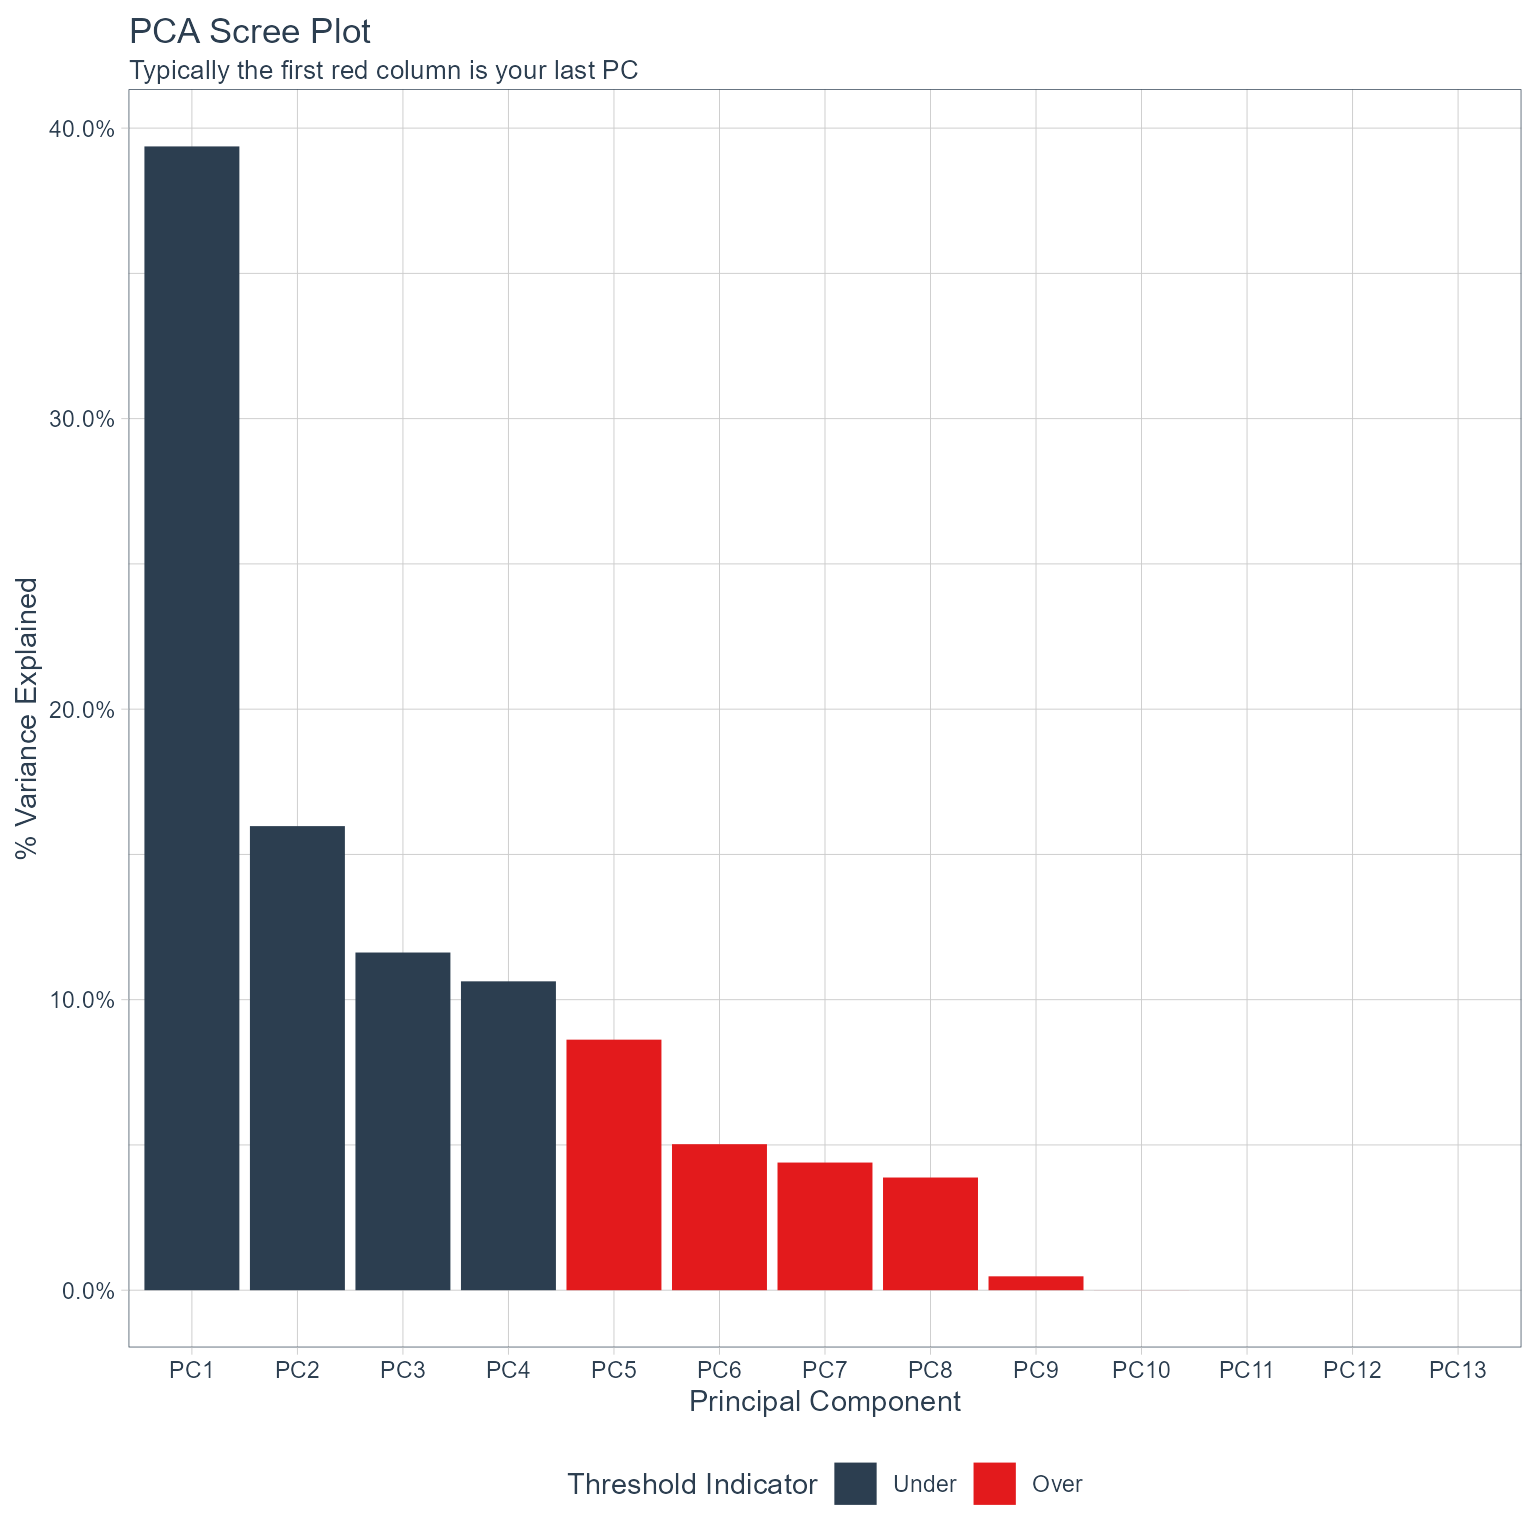
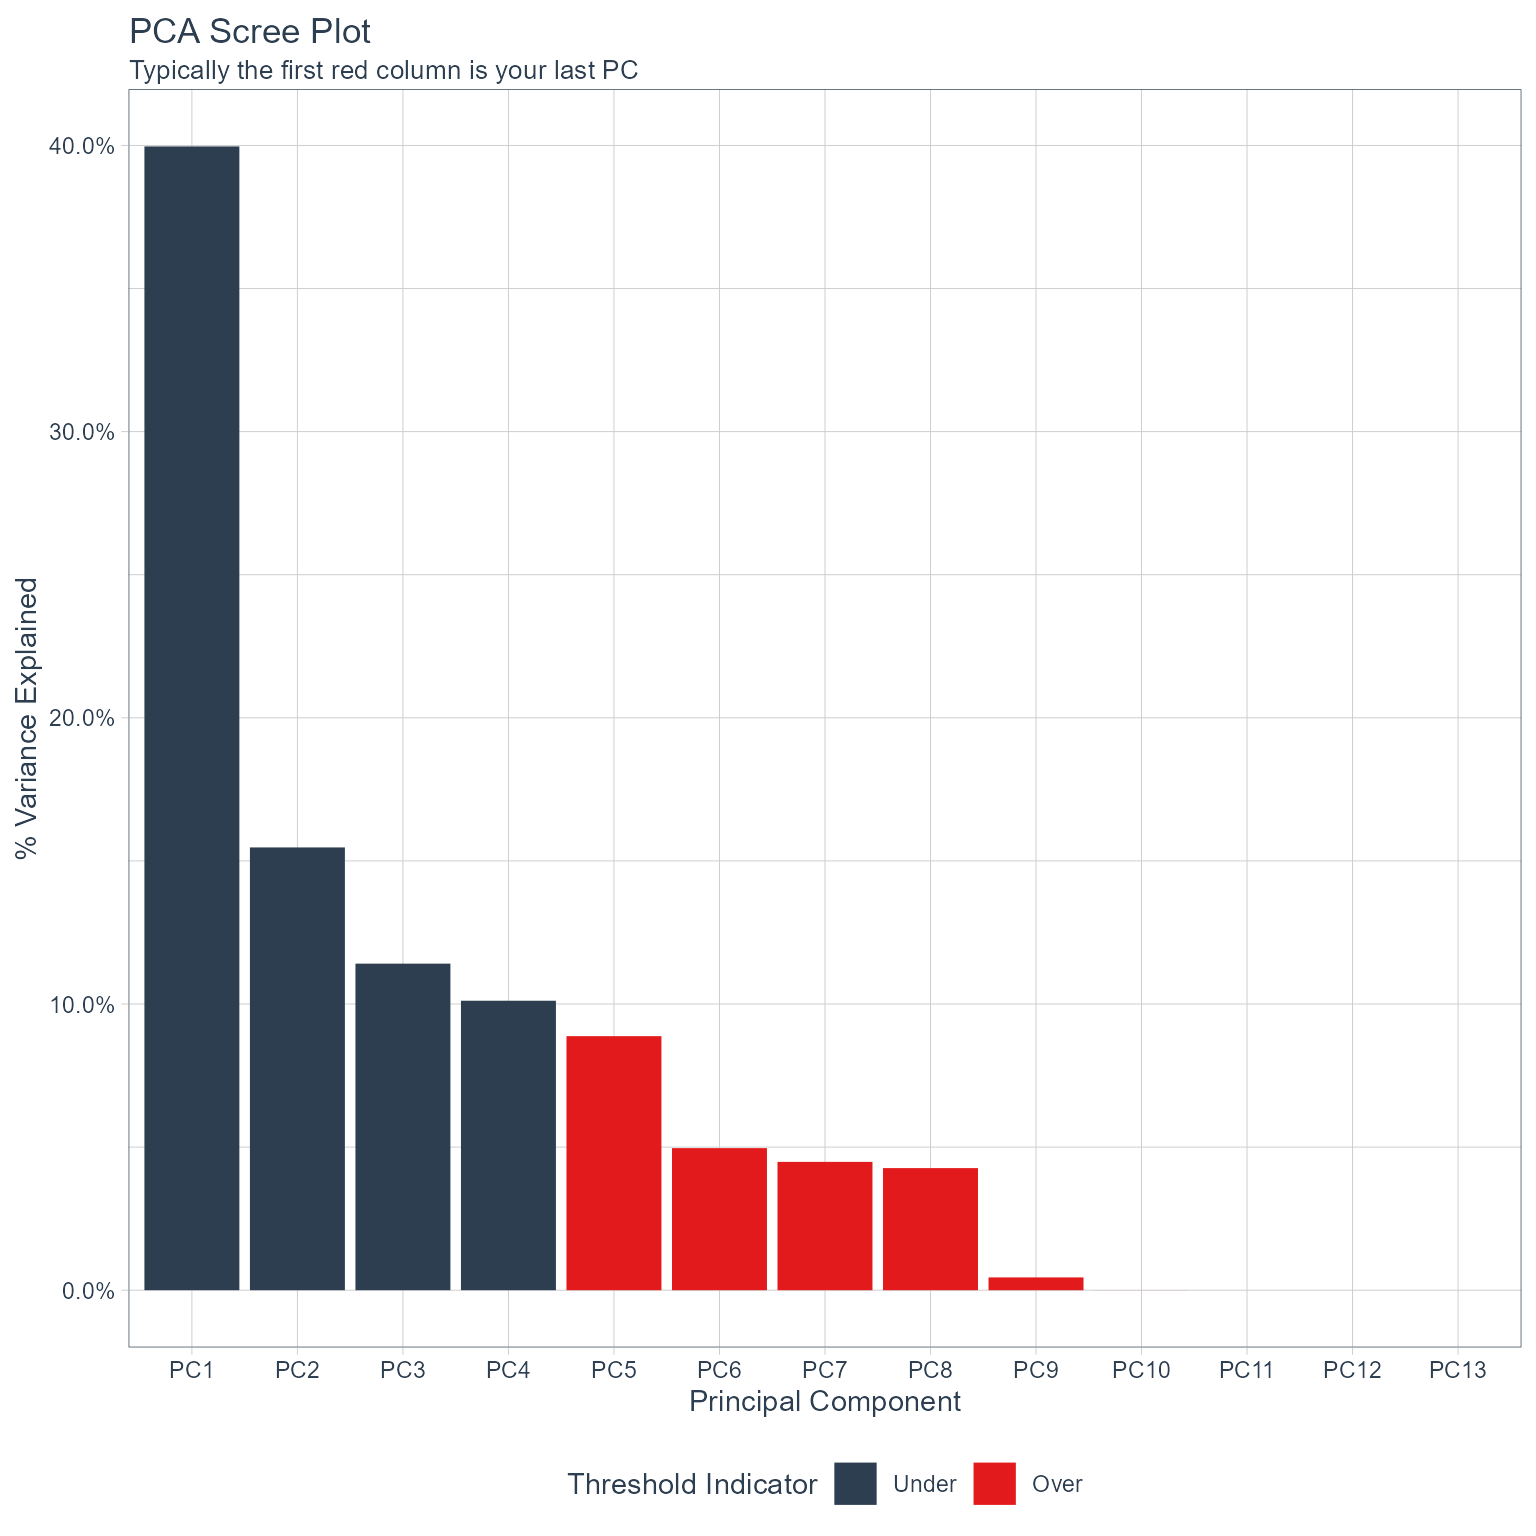
update site

diff --git a/docs/articles/getting-started.html b/docs/articles/getting-started.html
@@ -172,12 +172,12 @@
 <span class="co">#&gt; # A tibble: 6 x 2</span>
 <span class="co">#&gt;   date_col            value</span>
 <span class="co">#&gt;   &lt;dttm&gt;              &lt;int&gt;</span>
-<span class="co">#&gt; 1 2018-02-01 00:00:00  1514</span>
-<span class="co">#&gt; 2 2017-05-01 00:00:00  1647</span>
-<span class="co">#&gt; 3 2016-05-01 00:00:00  1587</span>
-<span class="co">#&gt; 4 2013-04-01 00:00:00  1865</span>
-<span class="co">#&gt; 5 2019-10-01 00:00:00  1525</span>
-<span class="co">#&gt; 6 2014-02-01 00:00:00  1651</span></code></pre></div>
+<span class="co">#&gt; 1 2020-03-01 00:00:00  1241</span>
+<span class="co">#&gt; 2 2014-01-01 00:00:00  1844</span>
+<span class="co">#&gt; 3 2014-09-01 00:00:00  1749</span>
+<span class="co">#&gt; 4 2015-08-01 00:00:00  1609</span>
+<span class="co">#&gt; 5 2017-12-01 00:00:00  1530</span>
+<span class="co">#&gt; 6 2014-10-01 00:00:00  1788</span></code></pre></div>
 </div>
 <div id="initial-recipe" class="section level2">
 <h2 class="hasAnchor">
@@ -204,25 +204,25 @@
 <span class="fu"><a href="../reference/get_juiced_data.html">get_juiced_data</a></span><span class="op">(</span><span class="va">rec_obj</span><span class="op">)</span> <span class="op"><a href="../reference/%&gt;%.html">%&gt;%</a></span> <span class="fu"><a href="https://pillar.r-lib.org/reference/glimpse.html">glimpse</a></span><span class="op">(</span><span class="op">)</span>
 <span class="co">#&gt; Rows: 76</span>
 <span class="co">#&gt; Columns: 20</span>
-<span class="co">#&gt; $ date_col           &lt;dttm&gt; 2018-02-01, 2017-05-01, 2016-05-01, 2013-04-01, 20~</span>
-<span class="co">#&gt; $ value              &lt;int&gt; 1514, 1647, 1587, 1865, 1525, 1651, 2082, 997, 1757~</span>
-<span class="co">#&gt; $ date_col_index.num &lt;dbl&gt; 1517443200, 1493596800, 1462060800, 1364774400, 156~</span>
-<span class="co">#&gt; $ date_col_year      &lt;int&gt; 2018, 2017, 2016, 2013, 2019, 2014, 2013, 2020, 201~</span>
-<span class="co">#&gt; $ date_col_half      &lt;int&gt; 1, 1, 1, 1, 2, 1, 1, 1, 2, 2, 2, 2, 2, 1, 1, 1, 2, ~</span>
-<span class="co">#&gt; $ date_col_quarter   &lt;int&gt; 1, 2, 2, 2, 4, 1, 1, 2, 4, 3, 3, 4, 4, 2, 1, 1, 4, ~</span>
-<span class="co">#&gt; $ date_col_month     &lt;int&gt; 2, 5, 5, 4, 10, 2, 1, 6, 12, 9, 7, 10, 11, 6, 1, 3,~</span>
-<span class="co">#&gt; $ date_col_month.lbl &lt;ord&gt; February, May, May, April, October, February, Janua~</span>
+<span class="co">#&gt; $ date_col           &lt;dttm&gt; 2020-03-01, 2014-01-01, 2014-09-01, 2015-08-01, 20~</span>
+<span class="co">#&gt; $ value              &lt;int&gt; 1241, 1844, 1749, 1609, 1530, 1788, 1474, 1677, 183~</span>
+<span class="co">#&gt; $ date_col_index.num &lt;dbl&gt; 1583020800, 1388534400, 1409529600, 1438387200, 151~</span>
+<span class="co">#&gt; $ date_col_year      &lt;int&gt; 2020, 2014, 2014, 2015, 2017, 2014, 2019, 2018, 201~</span>
+<span class="co">#&gt; $ date_col_half      &lt;int&gt; 1, 1, 2, 2, 2, 2, 2, 1, 1, 2, 2, 1, 1, 2, 1, 1, 2, ~</span>
+<span class="co">#&gt; $ date_col_quarter   &lt;int&gt; 1, 1, 3, 3, 4, 4, 3, 2, 2, 4, 4, 2, 1, 4, 2, 2, 3, ~</span>
+<span class="co">#&gt; $ date_col_month     &lt;int&gt; 3, 1, 9, 8, 12, 10, 7, 5, 5, 12, 11, 4, 2, 12, 4, 5~</span>
+<span class="co">#&gt; $ date_col_month.lbl &lt;ord&gt; March, January, September, August, December, Octobe~</span>
 <span class="co">#&gt; $ date_col_day       &lt;int&gt; 1, 1, 1, 1, 1, 1, 1, 1, 1, 1, 1, 1, 1, 1, 1, 1, 1, ~</span>
-<span class="co">#&gt; $ date_col_wday      &lt;int&gt; 5, 2, 1, 2, 3, 7, 3, 2, 2, 3, 4, 1, 7, 1, 2, 7, 5, ~</span>
-<span class="co">#&gt; $ date_col_wday.lbl  &lt;ord&gt; Thursday, Monday, Sunday, Monday, Tuesday, Saturday~</span>
+<span class="co">#&gt; $ date_col_wday      &lt;int&gt; 1, 4, 2, 7, 6, 4, 2, 3, 5, 7, 7, 3, 1, 1, 1, 6, 7, ~</span>
+<span class="co">#&gt; $ date_col_wday.lbl  &lt;ord&gt; Sunday, Wednesday, Monday, Saturday, Friday, Wednes~</span>
 <span class="co">#&gt; $ date_col_mday      &lt;int&gt; 1, 1, 1, 1, 1, 1, 1, 1, 1, 1, 1, 1, 1, 1, 1, 1, 1, ~</span>
-<span class="co">#&gt; $ date_col_qday      &lt;int&gt; 32, 31, 31, 1, 1, 32, 1, 62, 62, 63, 1, 1, 32, 62, ~</span>
-<span class="co">#&gt; $ date_col_yday      &lt;int&gt; 32, 121, 122, 91, 274, 32, 1, 153, 335, 244, 182, 2~</span>
-<span class="co">#&gt; $ date_col_mweek     &lt;int&gt; 5, 6, 5, 6, 5, 5, 6, 6, 6, 6, 5, 5, 5, 5, 6, 5, 5, ~</span>
-<span class="co">#&gt; $ date_col_week      &lt;int&gt; 5, 18, 18, 13, 40, 5, 1, 22, 48, 35, 26, 40, 44, 22~</span>
-<span class="co">#&gt; $ date_col_week2     &lt;int&gt; 1, 0, 0, 1, 0, 1, 1, 0, 0, 1, 0, 0, 0, 0, 1, 1, 0, ~</span>
-<span class="co">#&gt; $ date_col_week3     &lt;int&gt; 2, 0, 0, 1, 1, 2, 1, 1, 0, 2, 2, 1, 2, 1, 1, 0, 2, ~</span>
-<span class="co">#&gt; $ date_col_week4     &lt;int&gt; 1, 2, 2, 1, 0, 1, 1, 2, 0, 3, 2, 0, 0, 2, 1, 1, 0, ~</span>
+<span class="co">#&gt; $ date_col_qday      &lt;int&gt; 61, 1, 63, 32, 62, 1, 1, 31, 31, 62, 32, 1, 32, 62,~</span>
+<span class="co">#&gt; $ date_col_yday      &lt;int&gt; 61, 1, 244, 213, 335, 274, 182, 121, 121, 335, 305,~</span>
+<span class="co">#&gt; $ date_col_mweek     &lt;int&gt; 5, 5, 6, 5, 5, 5, 6, 5, 5, 5, 5, 6, 5, 5, 5, 5, 5, ~</span>
+<span class="co">#&gt; $ date_col_week      &lt;int&gt; 9, 1, 35, 31, 48, 40, 26, 18, 18, 48, 44, 13, 5, 48~</span>
+<span class="co">#&gt; $ date_col_week2     &lt;int&gt; 1, 1, 1, 1, 0, 0, 0, 0, 0, 0, 0, 1, 1, 0, 1, 0, 1, ~</span>
+<span class="co">#&gt; $ date_col_week3     &lt;int&gt; 0, 1, 2, 1, 0, 1, 2, 0, 0, 0, 2, 1, 2, 0, 1, 0, 1, ~</span>
+<span class="co">#&gt; $ date_col_week4     &lt;int&gt; 1, 1, 3, 3, 0, 0, 2, 2, 2, 0, 0, 1, 1, 0, 1, 2, 3, ~</span>
 <span class="co">#&gt; $ date_col_mday7     &lt;int&gt; 1, 1, 1, 1, 1, 1, 1, 1, 1, 1, 1, 1, 1, 1, 1, 1, 1, ~</span></code></pre></div>
 <p>Now that we have out initial recipe we can use the <code><a href="../reference/pca_your_recipe.html">pca_your_recipe()</a></code> function.</p>
 <div class="sourceCode" id="cb6"><pre class="downlit sourceCode r">
@@ -284,18 +284,18 @@
 <div class="sourceCode" id="cb8"><pre class="downlit sourceCode r">
 <code class="sourceCode R"><span class="va">pca_list</span><span class="op">$</span><span class="va">variable_loadings</span>
 <span class="co">#&gt; # A tibble: 169 x 4</span>
-<span class="co">#&gt;    terms                 value component id       </span>
-<span class="co">#&gt;    &lt;chr&gt;                 &lt;dbl&gt; &lt;chr&gt;     &lt;chr&gt;    </span>
-<span class="co">#&gt;  1 date_col_index.num -0.0662  PC1       pca_3Nh8P</span>
-<span class="co">#&gt;  2 date_col_year      -0.0114  PC1       pca_3Nh8P</span>
-<span class="co">#&gt;  3 date_col_half      -0.392   PC1       pca_3Nh8P</span>
-<span class="co">#&gt;  4 date_col_quarter   -0.436   PC1       pca_3Nh8P</span>
-<span class="co">#&gt;  5 date_col_month     -0.438   PC1       pca_3Nh8P</span>
-<span class="co">#&gt;  6 date_col_wday       0.00563 PC1       pca_3Nh8P</span>
-<span class="co">#&gt;  7 date_col_qday      -0.0408  PC1       pca_3Nh8P</span>
-<span class="co">#&gt;  8 date_col_yday      -0.438   PC1       pca_3Nh8P</span>
-<span class="co">#&gt;  9 date_col_mweek      0.0154  PC1       pca_3Nh8P</span>
-<span class="co">#&gt; 10 date_col_week      -0.438   PC1       pca_3Nh8P</span>
+<span class="co">#&gt;    terms                value component id       </span>
+<span class="co">#&gt;    &lt;chr&gt;                &lt;dbl&gt; &lt;chr&gt;     &lt;chr&gt;    </span>
+<span class="co">#&gt;  1 date_col_index.num -0.0305 PC1       pca_XE6H8</span>
+<span class="co">#&gt;  2 date_col_year       0.0261 PC1       pca_XE6H8</span>
+<span class="co">#&gt;  3 date_col_half      -0.387  PC1       pca_XE6H8</span>
+<span class="co">#&gt;  4 date_col_quarter   -0.431  PC1       pca_XE6H8</span>
+<span class="co">#&gt;  5 date_col_month     -0.436  PC1       pca_XE6H8</span>
+<span class="co">#&gt;  6 date_col_wday      -0.0173 PC1       pca_XE6H8</span>
+<span class="co">#&gt;  7 date_col_qday      -0.0987 PC1       pca_XE6H8</span>
+<span class="co">#&gt;  8 date_col_yday      -0.436  PC1       pca_XE6H8</span>
+<span class="co">#&gt;  9 date_col_mweek      0.0459 PC1       pca_XE6H8</span>
+<span class="co">#&gt; 10 date_col_week      -0.436  PC1       pca_XE6H8</span>
 <span class="co">#&gt; # ... with 159 more rows</span></code></pre></div>
 </div>
 <div id="variable-variance" class="section level2">
@@ -306,16 +306,16 @@
 <span class="co">#&gt; # A tibble: 52 x 4</span>
 <span class="co">#&gt;    terms       value component id       </span>
 <span class="co">#&gt;    &lt;chr&gt;       &lt;dbl&gt;     &lt;int&gt; &lt;chr&gt;    </span>
-<span class="co">#&gt;  1 variance 5.12             1 pca_3Nh8P</span>
-<span class="co">#&gt;  2 variance 2.08             2 pca_3Nh8P</span>
-<span class="co">#&gt;  3 variance 1.51             3 pca_3Nh8P</span>
-<span class="co">#&gt;  4 variance 1.38             4 pca_3Nh8P</span>
-<span class="co">#&gt;  5 variance 1.12             5 pca_3Nh8P</span>
-<span class="co">#&gt;  6 variance 0.653            6 pca_3Nh8P</span>
-<span class="co">#&gt;  7 variance 0.571            7 pca_3Nh8P</span>
-<span class="co">#&gt;  8 variance 0.504            8 pca_3Nh8P</span>
-<span class="co">#&gt;  9 variance 0.0621           9 pca_3Nh8P</span>
-<span class="co">#&gt; 10 variance 0.000246        10 pca_3Nh8P</span>
+<span class="co">#&gt;  1 variance 5.20             1 pca_XE6H8</span>
+<span class="co">#&gt;  2 variance 2.01             2 pca_XE6H8</span>
+<span class="co">#&gt;  3 variance 1.48             3 pca_XE6H8</span>
+<span class="co">#&gt;  4 variance 1.31             4 pca_XE6H8</span>
+<span class="co">#&gt;  5 variance 1.15             5 pca_XE6H8</span>
+<span class="co">#&gt;  6 variance 0.645            6 pca_XE6H8</span>
+<span class="co">#&gt;  7 variance 0.583            7 pca_XE6H8</span>
+<span class="co">#&gt;  8 variance 0.555            8 pca_XE6H8</span>
+<span class="co">#&gt;  9 variance 0.0581           9 pca_XE6H8</span>
+<span class="co">#&gt; 10 variance 0.000241        10 pca_XE6H8</span>
 <span class="co">#&gt; # ... with 42 more rows</span></code></pre></div>
 </div>
 <div id="pca-estimates" class="section level2">
@@ -349,28 +349,28 @@
 <code class="sourceCode R"><span class="va">pca_list</span><span class="op">$</span><span class="va">pca_juiced_estimates</span> <span class="op"><a href="../reference/%&gt;%.html">%&gt;%</a></span> <span class="fu"><a href="https://pillar.r-lib.org/reference/glimpse.html">glimpse</a></span><span class="op">(</span><span class="op">)</span>
 <span class="co">#&gt; Rows: 76</span>
 <span class="co">#&gt; Columns: 9</span>
-<span class="co">#&gt; $ date_col           &lt;dttm&gt; 2018-02-01, 2017-05-01, 2016-05-01, 2013-04-01, 20~</span>
-<span class="co">#&gt; $ value              &lt;dbl&gt; -0.11351897, 0.36941444, 0.15154974, 1.16098951, -0~</span>
-<span class="co">#&gt; $ date_col_month.lbl &lt;ord&gt; February, May, May, April, October, February, Janua~</span>
-<span class="co">#&gt; $ date_col_wday.lbl  &lt;ord&gt; Thursday, Monday, Sunday, Monday, Tuesday, Saturday~</span>
-<span class="co">#&gt; $ PC1                &lt;dbl&gt; 2.7927102, 1.1154688, 1.1085104, 2.0044709, -2.7687~</span>
-<span class="co">#&gt; $ PC2                &lt;dbl&gt; 1.3266163, -0.2492023, -0.5094424, -2.4154638, 1.64~</span>
-<span class="co">#&gt; $ PC3                &lt;dbl&gt; 0.28421855, 0.32572052, -0.78999723, 1.46865251, -0~</span>
-<span class="co">#&gt; $ PC4                &lt;dbl&gt; 0.1036536, -0.8030017, -0.6690337, -1.3355632, -1.7~</span>
-<span class="co">#&gt; $ PC5                &lt;dbl&gt; 0.902491337, -2.113325081, -1.410076826, -0.0092397~</span>
+<span class="co">#&gt; $ date_col           &lt;dttm&gt; 2020-03-01, 2014-01-01, 2014-09-01, 2015-08-01, 20~</span>
+<span class="co">#&gt; $ value              &lt;dbl&gt; -1.13399419, 1.05434528, 0.70958201, 0.20150983, -0~</span>
+<span class="co">#&gt; $ date_col_month.lbl &lt;ord&gt; March, January, September, August, December, Octobe~</span>
+<span class="co">#&gt; $ date_col_wday.lbl  &lt;ord&gt; Sunday, Wednesday, Monday, Saturday, Friday, Wednes~</span>
+<span class="co">#&gt; $ PC1                &lt;dbl&gt; 2.2707521, 3.1807116, -1.2921604, -0.9223952, -3.63~</span>
+<span class="co">#&gt; $ PC2                &lt;dbl&gt; 2.3905016, -1.7398980, -1.3724133, -0.8320214, 0.63~</span>
+<span class="co">#&gt; $ PC3                &lt;dbl&gt; -0.8853202, -0.1727633, 1.8458672, -0.6439313, -1.8~</span>
+<span class="co">#&gt; $ PC4                &lt;dbl&gt; -0.55885528, -0.53374845, 2.27756546, 2.18801700, -~</span>
+<span class="co">#&gt; $ PC5                &lt;dbl&gt; 1.67545584, -0.66668542, 1.88942609, -0.49885088, 0~</span>
 
 <span class="va">pca_list</span><span class="op">$</span><span class="va">pca_baked_data</span> <span class="op"><a href="../reference/%&gt;%.html">%&gt;%</a></span> <span class="fu"><a href="https://pillar.r-lib.org/reference/glimpse.html">glimpse</a></span><span class="op">(</span><span class="op">)</span>
 <span class="co">#&gt; Rows: 95</span>
 <span class="co">#&gt; Columns: 9</span>
 <span class="co">#&gt; $ date_col           &lt;dttm&gt; 2013-01-01, 2013-02-01, 2013-03-01, 2013-04-01, 20~</span>
-<span class="co">#&gt; $ value              &lt;dbl&gt; 1.9489335, 0.6308521, 0.9104451, 1.1609895, 1.75285~</span>
+<span class="co">#&gt; $ value              &lt;dbl&gt; 1.9180680, 0.6007094, 0.8801491, 1.1305561, 1.72209~</span>
 <span class="co">#&gt; $ date_col_month.lbl &lt;ord&gt; January, February, March, April, May, June, July, A~</span>
 <span class="co">#&gt; $ date_col_wday.lbl  &lt;ord&gt; Tuesday, Friday, Friday, Monday, Wednesday, Saturda~</span>
-<span class="co">#&gt; $ PC1                &lt;dbl&gt; 3.5482035, 2.9689851, 2.7800168, 2.0044709, 1.22489~</span>
-<span class="co">#&gt; $ PC2                &lt;dbl&gt; -2.2867341, -1.6028229, -2.0543689, -2.4154638, -2.~</span>
-<span class="co">#&gt; $ PC3                &lt;dbl&gt; 1.35395679, -0.12326313, -1.94453115, 1.46865251, -~</span>
-<span class="co">#&gt; $ PC4                &lt;dbl&gt; -1.3456130, 0.1349445, 0.5736815, -1.3355632, -0.39~</span>
-<span class="co">#&gt; $ PC5                &lt;dbl&gt; 0.390069628, 2.096182990, 0.392663831, -0.009239711~</span></code></pre></div>
+<span class="co">#&gt; $ PC1                &lt;dbl&gt; 3.2968605, 2.6472096, 2.2509345, 1.8464430, 0.79419~</span>
+<span class="co">#&gt; $ PC2                &lt;dbl&gt; -2.361245, -2.371897, -2.002951, -2.274907, -1.9131~</span>
+<span class="co">#&gt; $ PC3                &lt;dbl&gt; 1.3599854, -0.5131293, -2.2417079, 1.6355567, -1.33~</span>
+<span class="co">#&gt; $ PC4                &lt;dbl&gt; -0.81387689, 0.57096898, 0.09211354, -0.86741891, -~</span>
+<span class="co">#&gt; $ PC5                &lt;dbl&gt; 0.4769781, -0.9387471, 0.8451260, 0.8302813, 0.8128~</span></code></pre></div>
 </div>
 <div id="roatation-data" class="section level2">
 <h2 class="hasAnchor">
@@ -379,19 +379,19 @@
 <code class="sourceCode R"><span class="va">pca_list</span><span class="op">$</span><span class="va">pca_rotation_df</span> <span class="op"><a href="../reference/%&gt;%.html">%&gt;%</a></span> <span class="fu"><a href="https://pillar.r-lib.org/reference/glimpse.html">glimpse</a></span><span class="op">(</span><span class="op">)</span>
 <span class="co">#&gt; Rows: 13</span>
 <span class="co">#&gt; Columns: 13</span>
-<span class="co">#&gt; $ PC1  &lt;dbl&gt; -0.066154848, -0.011412559, -0.392233508, -0.435829341, -0.437639~</span>
-<span class="co">#&gt; $ PC2  &lt;dbl&gt; 0.66680436, 0.67547037, -0.02626571, -0.01634327, -0.04196569, 0.~</span>
-<span class="co">#&gt; $ PC3  &lt;dbl&gt; 0.05255088, 0.05738610, 0.19448858, 0.05038108, -0.03777773, -0.3~</span>
-<span class="co">#&gt; $ PC4  &lt;dbl&gt; 0.02155050, 0.01289716, 0.14117559, -0.06695641, 0.06961038, 0.23~</span>
-<span class="co">#&gt; $ PC5  &lt;dbl&gt; -0.20500571, -0.19957972, 0.13961535, 0.04710930, -0.05313311, 0.~</span>
-<span class="co">#&gt; $ PC6  &lt;dbl&gt; 0.0026954867, 0.0019395677, 0.2088295330, 0.0009338324, 0.0044066~</span>
-<span class="co">#&gt; $ PC7  &lt;dbl&gt; -0.06385317, -0.05855162, -0.18480414, -0.07015980, -0.04417755, ~</span>
-<span class="co">#&gt; $ PC8  &lt;dbl&gt; -0.004580754, -0.002720476, 0.176251446, 0.122117055, -0.01050281~</span>
-<span class="co">#&gt; $ PC9  &lt;dbl&gt; 0.00572713, -0.02145164, -0.81201533, 0.26633458, 0.21398981, -0.~</span>
-<span class="co">#&gt; $ PC10 &lt;dbl&gt; -0.0131400045, 0.0122783321, -0.0025548738, -0.3009789126, -0.375~</span>
-<span class="co">#&gt; $ PC11 &lt;dbl&gt; 2.328979e-02, -2.386627e-02, 1.313469e-03, 9.878128e-03, -6.42349~</span>
-<span class="co">#&gt; $ PC12 &lt;dbl&gt; -5.383519e-03, 4.984854e-03, -3.179569e-03, -7.861303e-01, 4.4271~</span>
-<span class="co">#&gt; $ PC13 &lt;dbl&gt; -7.077145e-01, 7.040406e-01, 8.717170e-05, 3.298911e-02, 4.345652~</span></code></pre></div>
+<span class="co">#&gt; $ PC1  &lt;dbl&gt; -0.03051201, 0.02614255, -0.38727742, -0.43066973, -0.43616349, -~</span>
+<span class="co">#&gt; $ PC2  &lt;dbl&gt; 0.698955035, 0.698827156, -0.025892454, -0.017363780, 0.004134227~</span>
+<span class="co">#&gt; $ PC3  &lt;dbl&gt; 0.053199738, 0.054172636, 0.155675217, 0.092152173, -0.008668624,~</span>
+<span class="co">#&gt; $ PC4  &lt;dbl&gt; -0.00682823, -0.01210206, 0.21453277, -0.03201051, 0.04016172, 0.~</span>
+<span class="co">#&gt; $ PC5  &lt;dbl&gt; -0.07985125, -0.08822811, -0.10802194, -0.06743439, 0.06574572, -~</span>
+<span class="co">#&gt; $ PC6  &lt;dbl&gt; -0.014372778, -0.015215200, -0.129471108, 0.039277410, 0.00868128~</span>
+<span class="co">#&gt; $ PC7  &lt;dbl&gt; 0.002547454, 0.003795940, -0.304651332, -0.137801761, -0.01225580~</span>
+<span class="co">#&gt; $ PC8  &lt;dbl&gt; -0.039060394, -0.032148815, -0.113212297, -0.002218334, -0.049576~</span>
+<span class="co">#&gt; $ PC9  &lt;dbl&gt; -0.01831118, 0.01050285, 0.80311766, -0.27739076, -0.22050291, 0.~</span>
+<span class="co">#&gt; $ PC10 &lt;dbl&gt; -0.012720817, 0.012799378, -0.004315465, -0.302990267, -0.3712867~</span>
+<span class="co">#&gt; $ PC11 &lt;dbl&gt; 0.0275867941, -0.0280538640, 0.0010682611, 0.1383923477, -0.70770~</span>
+<span class="co">#&gt; $ PC12 &lt;dbl&gt; -3.085158e-03, 2.605532e-03, -2.825047e-03, -7.683643e-01, 3.3724~</span>
+<span class="co">#&gt; $ PC13 &lt;dbl&gt; -7.058834e-01, 7.055101e-01, 7.874457e-05, 3.655406e-02, 2.693170~</span></code></pre></div>
 </div>
 <div id="variance-and-scree-plot" class="section level2">
 <h2 class="hasAnchor">
@@ -401,10 +401,10 @@
 <span class="co">#&gt; Rows: 13</span>
 <span class="co">#&gt; Columns: 6</span>
 <span class="co">#&gt; $ PC              &lt;chr&gt; "PC1", "PC2", "PC3", "PC4", "PC5", "PC6", "PC7", "PC8"~</span>
-<span class="co">#&gt; $ var_explained   &lt;dbl&gt; 3.936984e-01, 1.597401e-01, 1.162316e-01, 1.063160e-01~</span>
-<span class="co">#&gt; $ var_pct_txt     &lt;chr&gt; "39.37%", "15.97%", "11.62%", "10.63%", "8.62%", "5.03~</span>
-<span class="co">#&gt; $ cum_var_pct     &lt;dbl&gt; 0.3936984, 0.5534385, 0.6696701, 0.7759860, 0.8622231,~</span>
-<span class="co">#&gt; $ cum_var_pct_txt &lt;chr&gt; "39.37%", "55.34%", "66.97%", "77.60%", "86.22%", "91.~</span>
+<span class="co">#&gt; $ var_explained   &lt;dbl&gt; 3.996538e-01, 1.547069e-01, 1.141010e-01, 1.011440e-01~</span>
+<span class="co">#&gt; $ var_pct_txt     &lt;chr&gt; "39.97%", "15.47%", "11.41%", "10.11%", "8.88%", "4.96~</span>
+<span class="co">#&gt; $ cum_var_pct     &lt;dbl&gt; 0.3996538, 0.5543608, 0.6684617, 0.7696058, 0.8583708,~</span>
+<span class="co">#&gt; $ cum_var_pct_txt &lt;chr&gt; "39.97%", "55.44%", "66.85%", "76.96%", "85.84%", "90.~</span>
 <span class="co">#&gt; $ ou_threshold    &lt;fct&gt; Under, Under, Under, Under, Over, Over, Over, Over, Ov~</span></code></pre></div>
 <div class="sourceCode" id="cb14"><pre class="downlit sourceCode r">
 <code class="sourceCode R"><span class="va">pca_list</span><span class="op">$</span><span class="va">pca_variance_scree_plt</span></code></pre></div>
